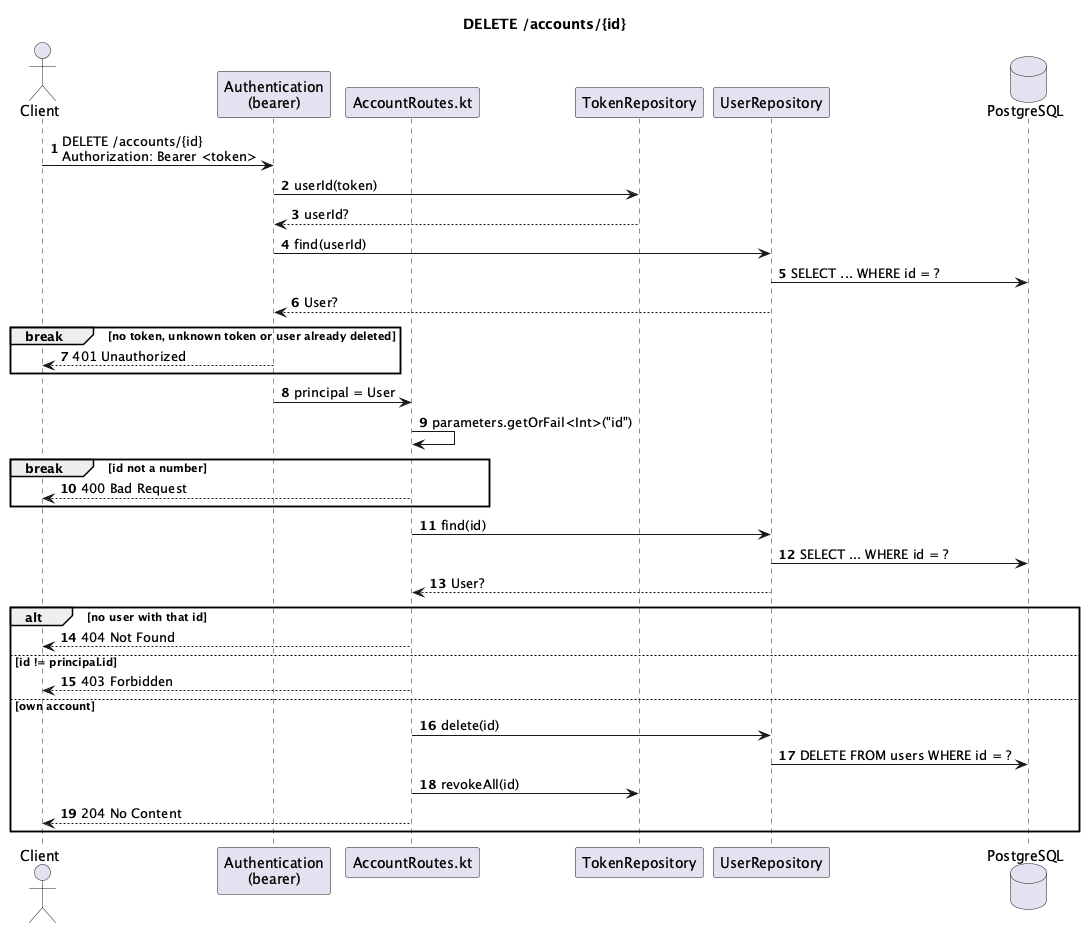
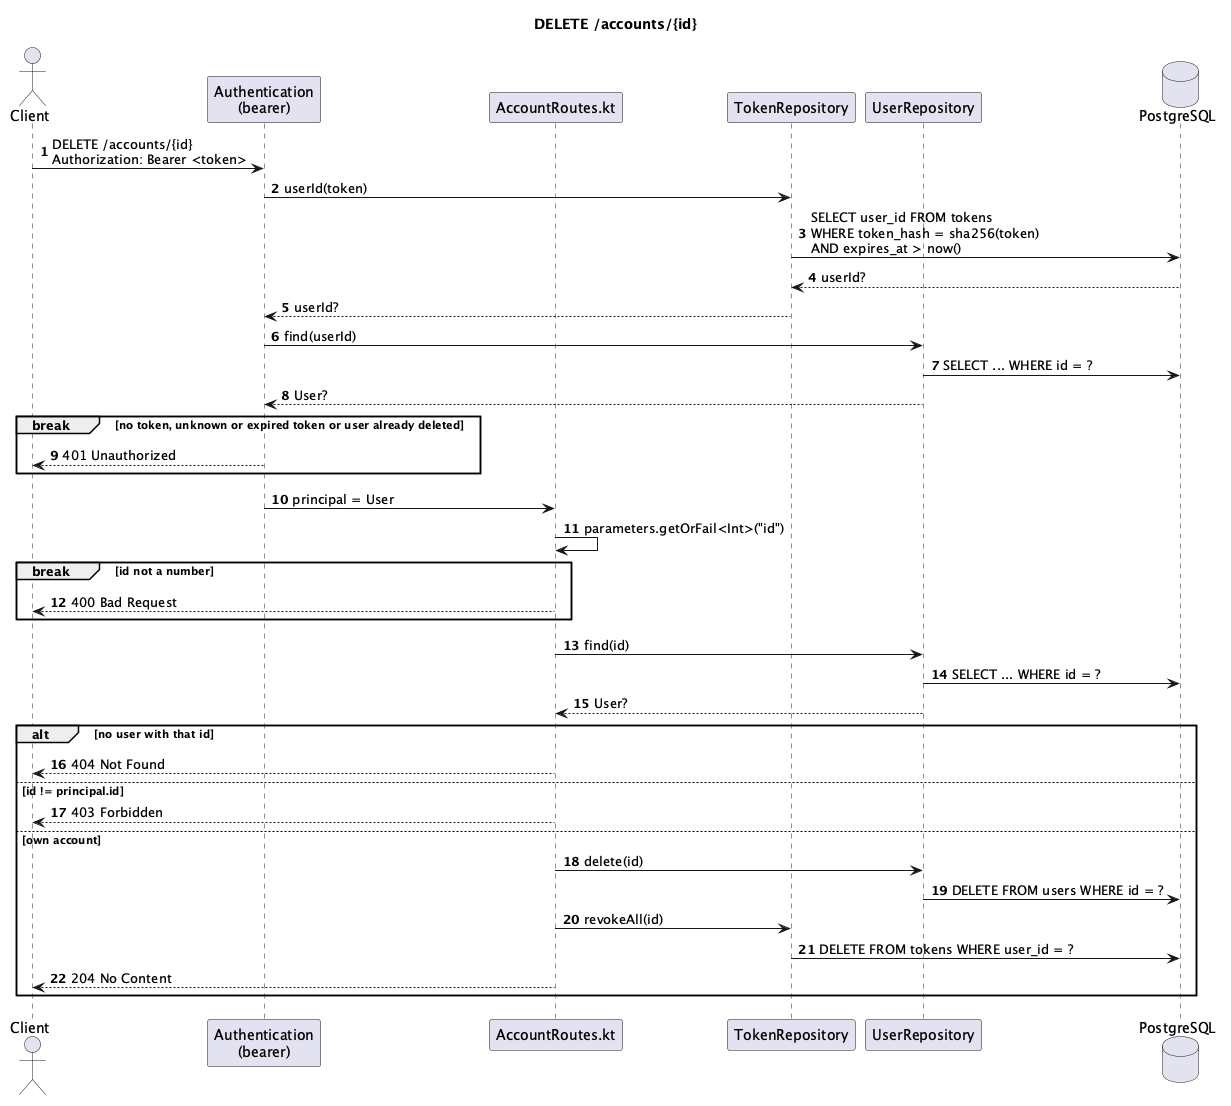
Document stored login tokens in the README, OpenAPI and diagrams

diff --git a/README.md b/README.md
@@ -56,7 +56,7 @@ curl http://localhost:8080/cars
 
 A rule gets a unit test for each edge value; a route gets an integration test for each status code it can answer.
 
-The connection defaults match `docker-compose.yml`. Override them with the environment variables `DATABASE_URL`, `DATABASE_USER` and `DATABASE_PASSWORD`. Car photos are stored as files in the directory `uploads` (set `IMAGES_DIRECTORY` to change it), next to the database rows that hold their urls. The tables are created when the server starts, and the cars table is filled with sample cars when it is empty. Login tokens are not stored: after a restart everyone logs in again. The tests don't need Docker: they start their own Postgres.
+The connection defaults match `docker-compose.yml`. Override them with the environment variables `DATABASE_URL`, `DATABASE_USER` and `DATABASE_PASSWORD`. Car photos are stored as files in the directory `uploads` (set `IMAGES_DIRECTORY` to change it), next to the database rows that hold their urls. The tables are created when the server starts, and the cars table is filled with sample cars when it is empty. Login tokens are stored (only their SHA-256 hash) and expire 7 days after login, so a restart does not log anyone out. The tests don't need Docker: they start their own Postgres.
 
 ## Console client
 
@@ -165,7 +165,7 @@ The app can also time the trip: `POST /reservations/{id}/trip/start` (on the day
 
 After a finished trip the renter can rate the car once with `POST /reservations/{id}/rating`: `stars` (1 to 5) and an optional `comment` (up to 500 characters, trimmed). `409` without a finished trip (a started trip that has not ended does not count) or when the reservation was already rated. `GET /cars/{id}/ratings` lists the ratings of a car, newest first, with `averageRating` (one decimal, `null` without ratings) and `ratingCount`; a rating shows no data of the renter. `GET /cars` and `GET /cars/{id}` also show the car's `averageRating`. Deleting a car or an account removes the ratings that belong to it.
 
-A password needs 8 to 128 characters, and the email address must be unused. Everything under `/accounts/{id}` and `/logout` needs a login and only works on your own account. Routes that need a login take the token from `POST /login` in an `Authorization: Bearer <token>` header. Each endpoint has a [sequence diagram](docs/diagrams) with every status code.
+A password needs 8 to 128 characters, and the email address must be unused. Everything under `/accounts/{id}` and `/logout` needs a login and only works on your own account. Routes that need a login take the token from `POST /login` in an `Authorization: Bearer <token>` header; a token is valid for 7 days and then answers `401` like an unknown one. Each endpoint has a [sequence diagram](docs/diagrams) with every status code.
 
 ```bash
 curl -X POST localhost:8080/accounts -H 'Content-Type: application/json' \
